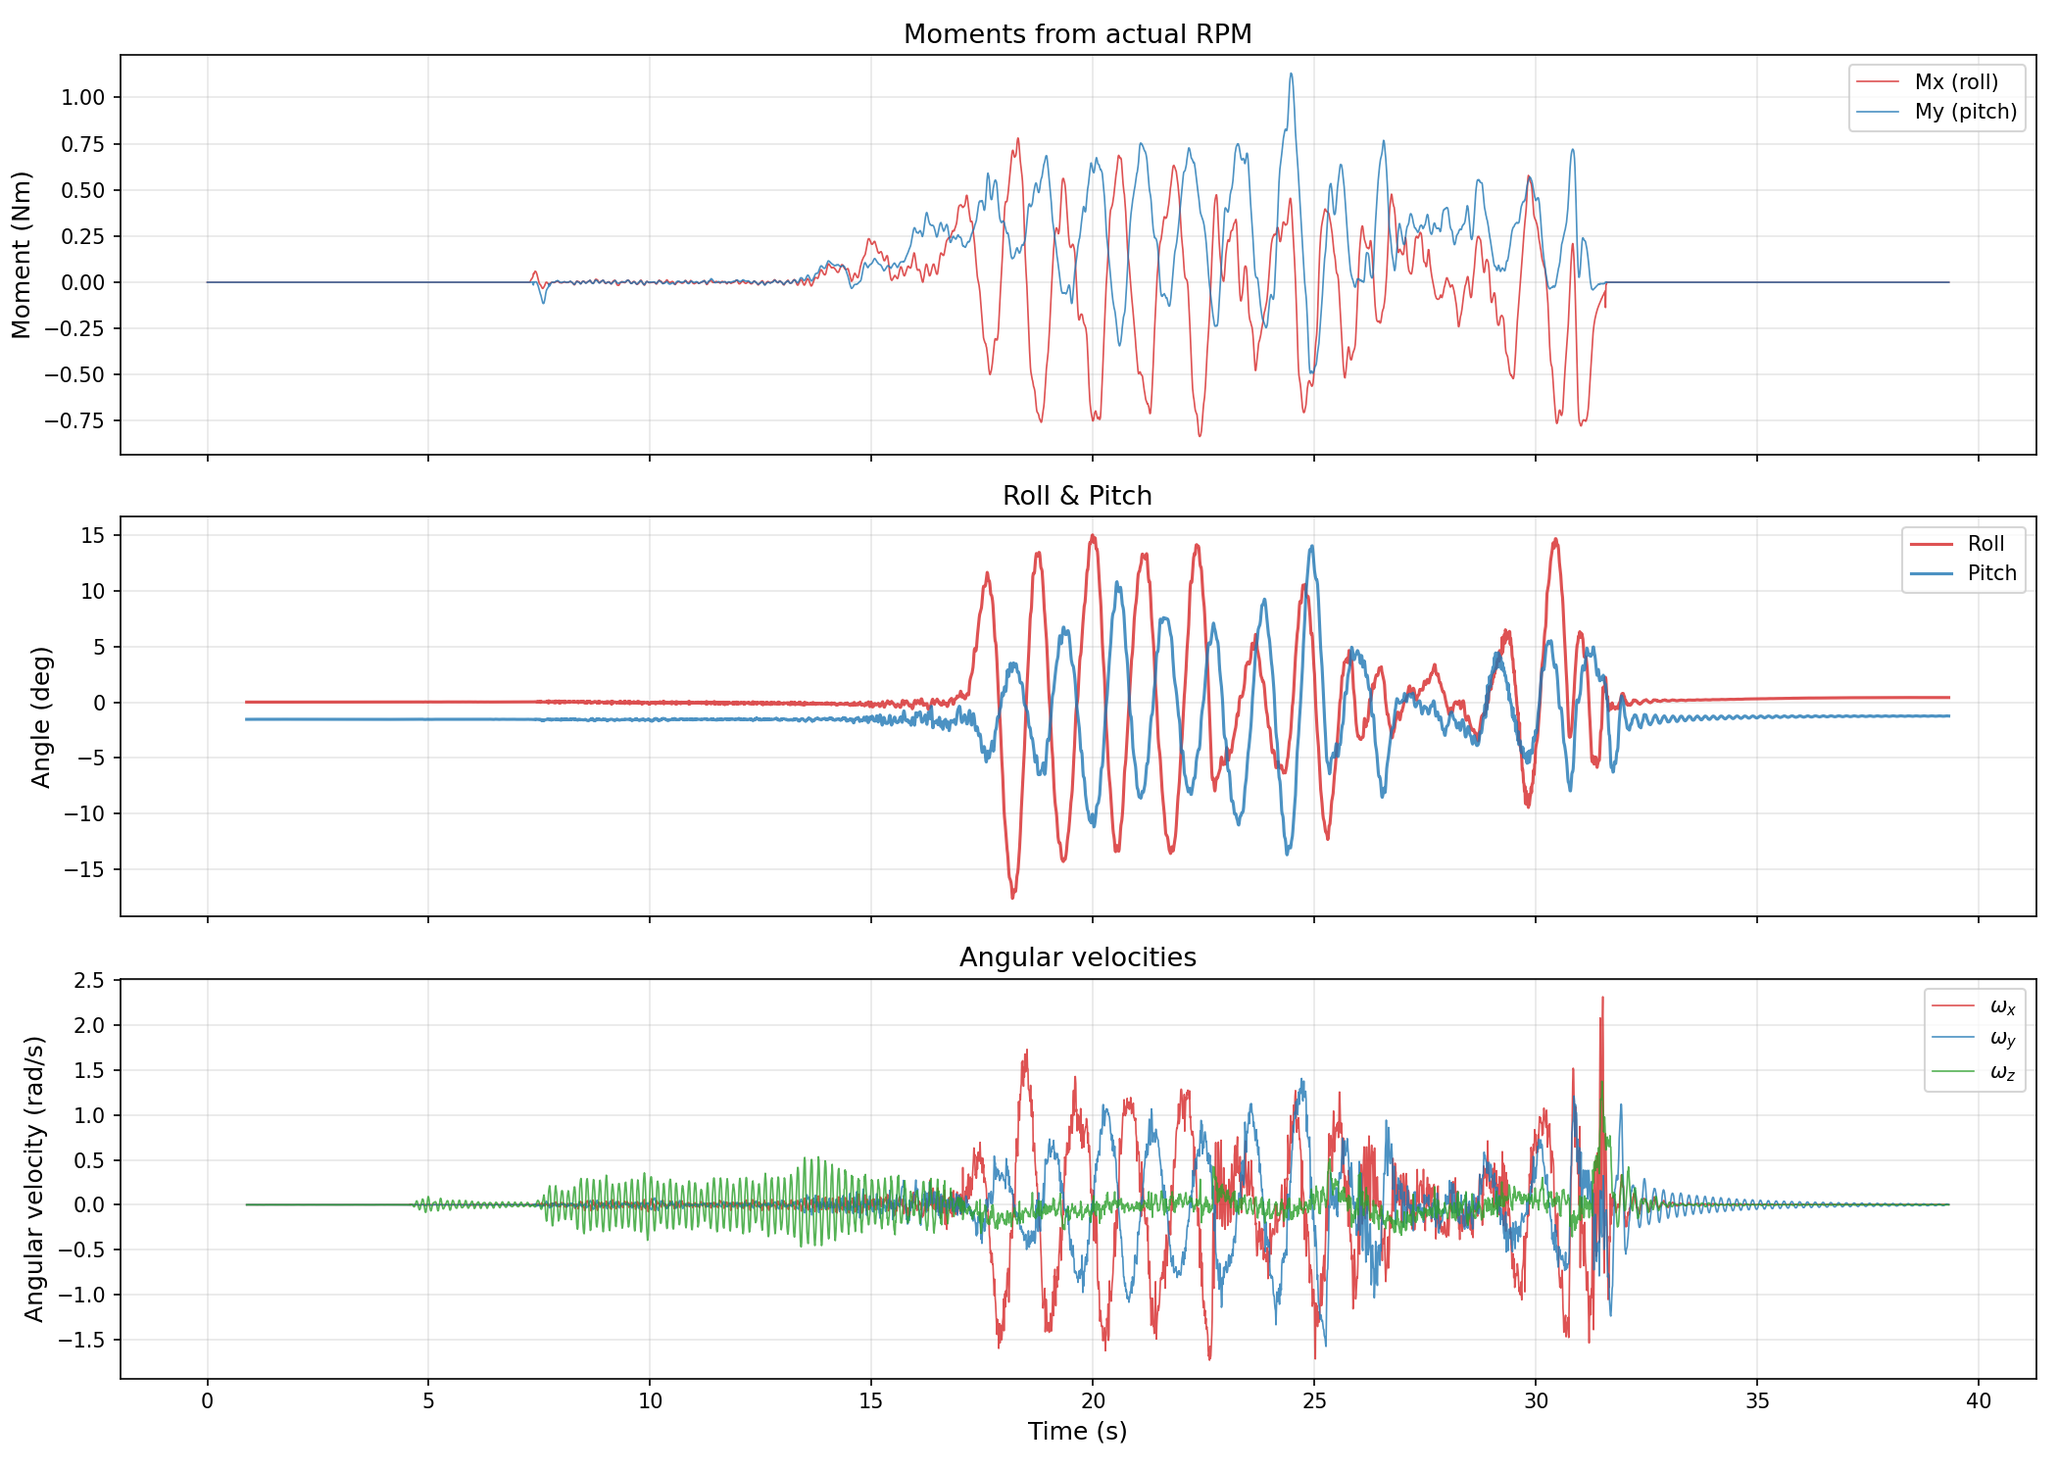
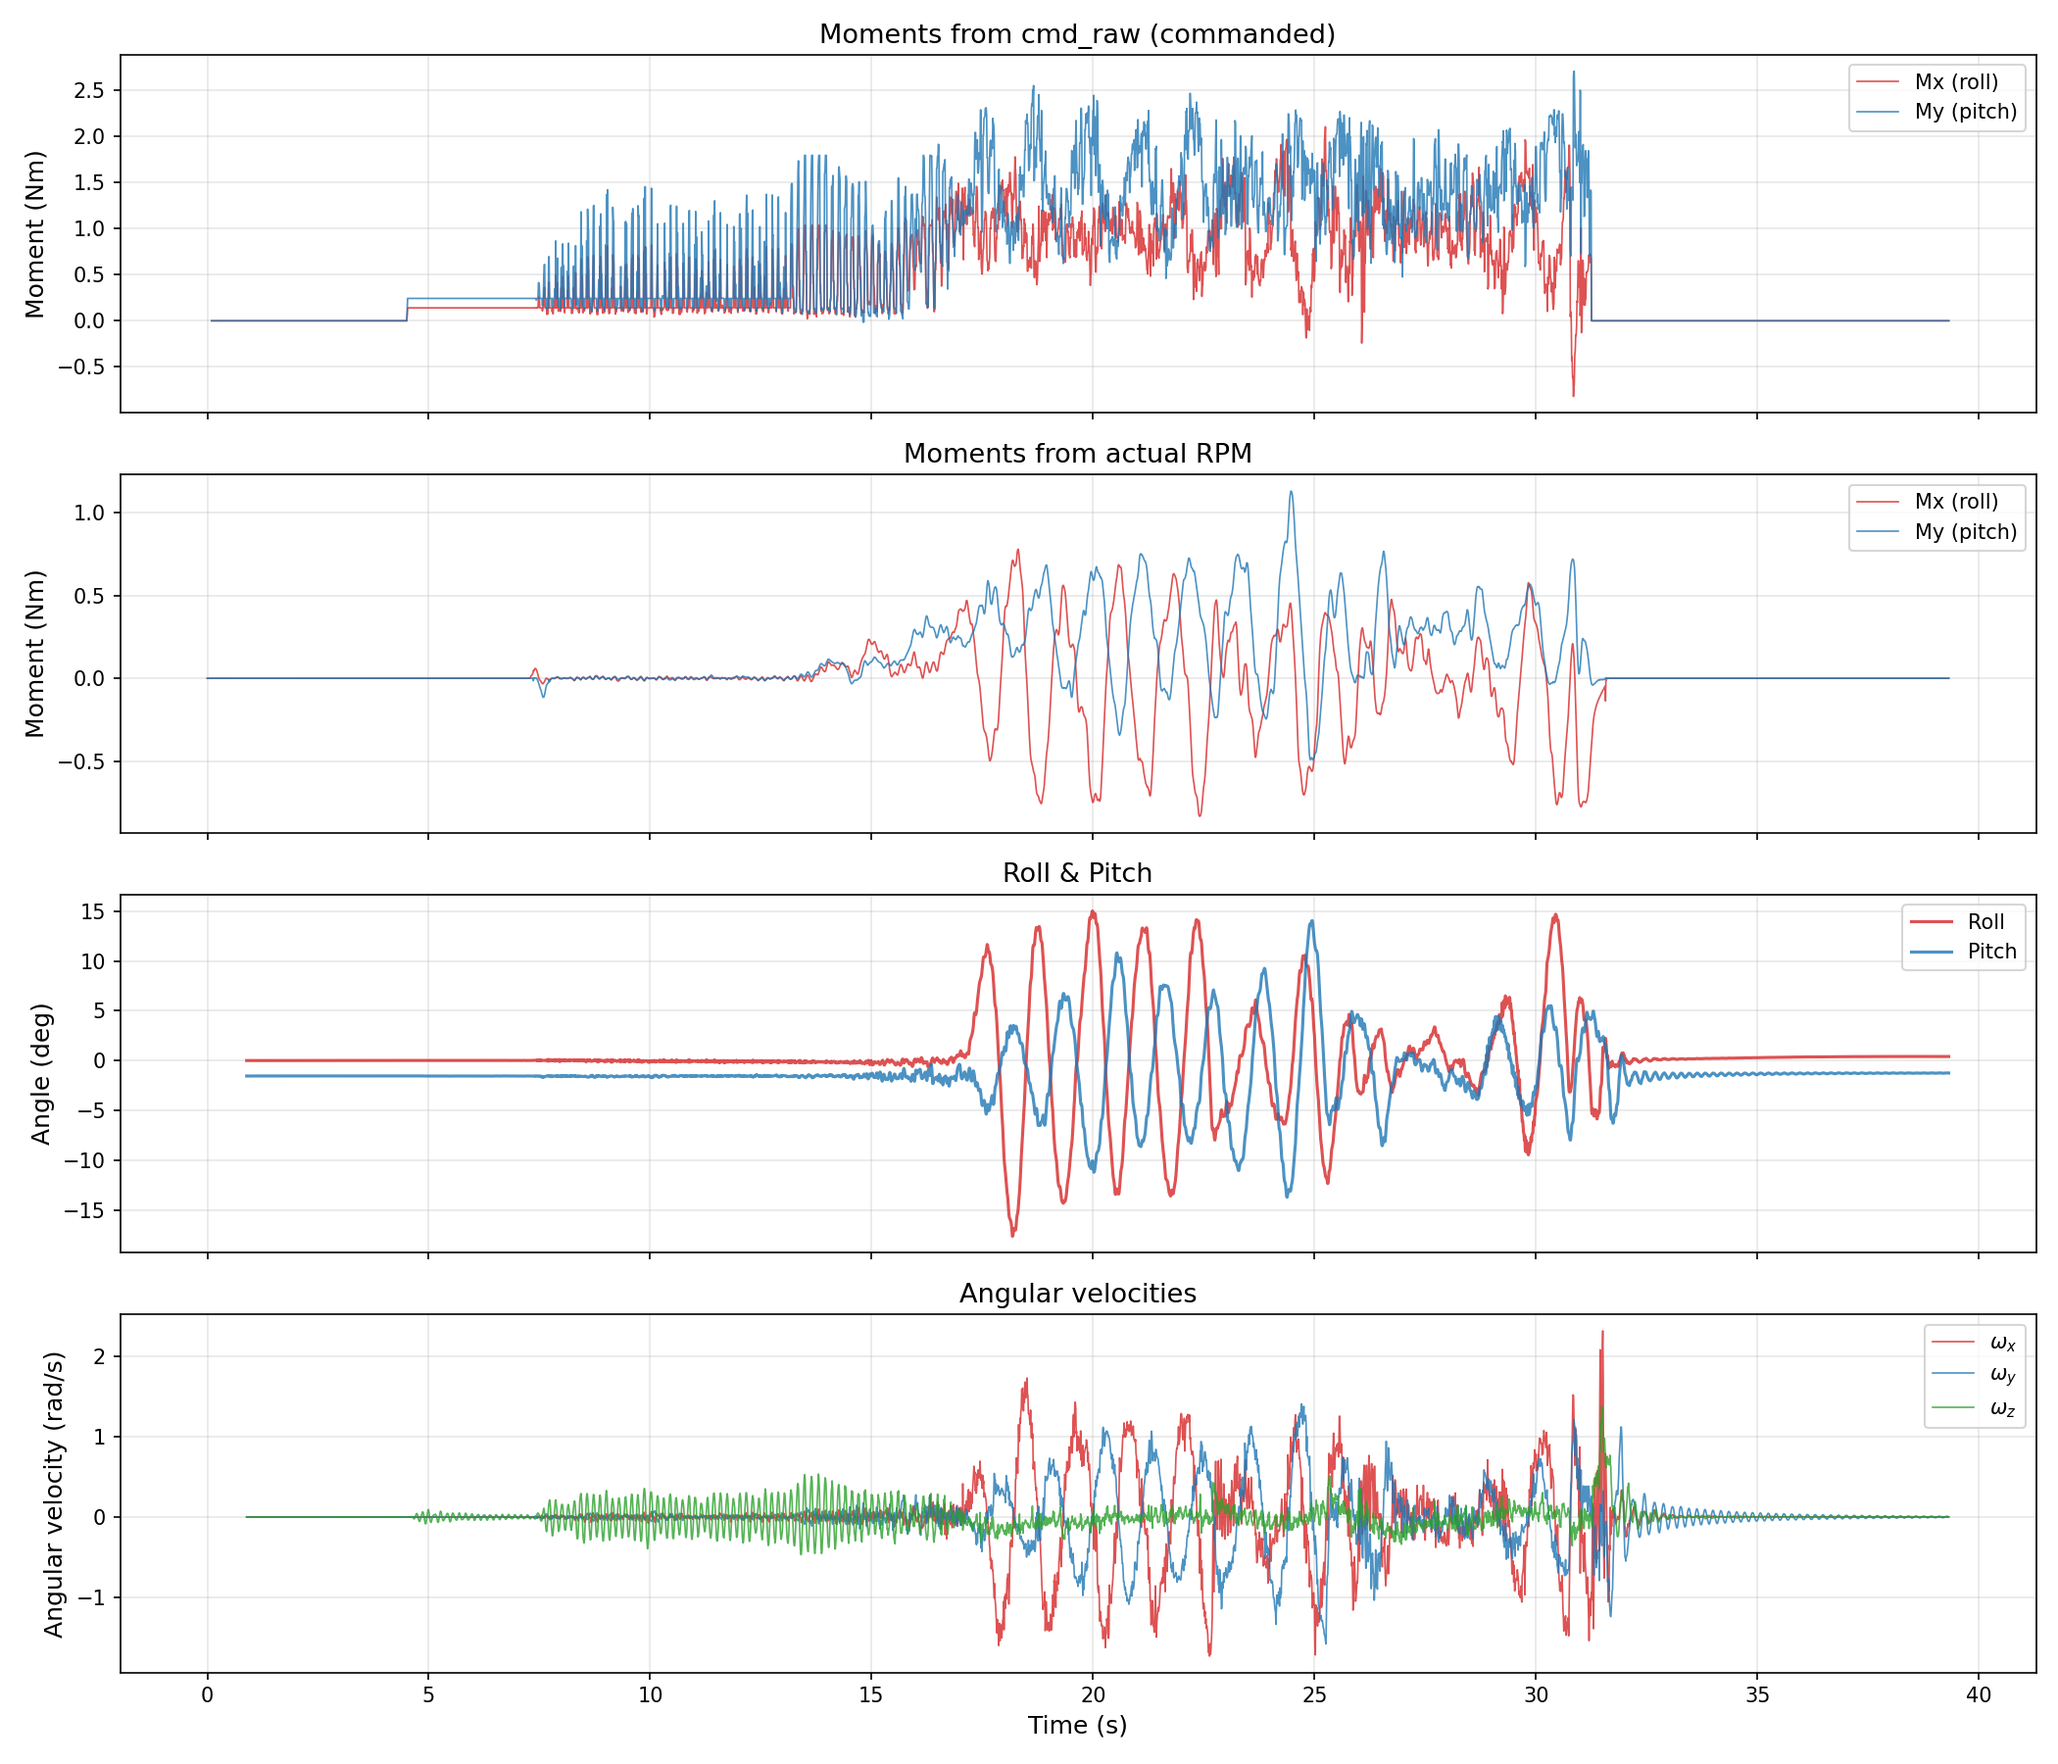
Add cmd_raw moments row and align time to actual_rpm reference
4-row plot: cmd_raw moments, actual RPM moments, roll/pitch, angular velocities.
All time axes referenced to actual_rpm start time.

https://claude.ai/code/session_015hDTXF7MWidPDJrsc9iZ1y

diff --git a/bag_folder/plot_actual_rpm_moment_attitude_omega.py b/bag_folder/plot_actual_rpm_moment_attitude_omega.py
@@ -1,5 +1,5 @@
 #!/usr/bin/env python3
-"""Plot moments from actual RPM, roll/pitch, and angular velocities (3 rows)."""
+"""Plot moments from actual RPM & cmd_raw, roll/pitch, and angular velocities (4 rows)."""
 
 import sqlite3
 import struct
@@ -11,6 +11,8 @@ from scipy.spatial.transform import Rotation
 C_T = 1.465e-07       # N/RPM^2
 k_m = 0.01569          # Nm/N
 l = 0.265              # arm length (m)
+MaxBit = 8191
+MaxRpm = 9800
 
 # ── K_forward matrix (same as existing code) ──
 lx1 = l * np.sin(np.pi / 3); ly1 = l * np.cos(np.pi / 3)
@@ -34,6 +36,18 @@ def cdr_align(off, alignment, cdr_start=4):
     if rem != 0:
         off += alignment - rem
     return off
+
+
+def parse_cmd_raw(data):
+    """Parse HexaCmdRaw CDR → (timestamp, cmd[6])."""
+    off = 4
+    sec = struct.unpack_from('<I', data, off)[0]; off += 4
+    nsec = struct.unpack_from('<I', data, off)[0]; off += 4
+    flen = struct.unpack_from('<I', data, off)[0]; off += 4
+    off += flen
+    off = (off + 3) & ~3
+    cmds = np.array(struct.unpack_from('<6h', data, off), dtype=np.float64)
+    return sec + nsec * 1e-9, cmds
 
 
 def parse_actual_rpm(data):
@@ -85,6 +99,19 @@ def load_bag(db_path):
     c.execute('SELECT id, name FROM topics')
     topics = {name: tid for tid, name in c.fetchall()}
 
+    # ── cmd_raw → moments ──
+    tid = topics['/uav/cmd_raw']
+    c.execute('SELECT timestamp, data FROM messages WHERE topic_id=? ORDER BY timestamp', (tid,))
+    cmd_times, cmd_Mx, cmd_My = [], [], []
+    for ts, data in c.fetchall():
+        t, cmds = parse_cmd_raw(data)
+        rpms = cmds * MaxRpm / MaxBit
+        thrusts = C_T * rpms ** 2
+        u = K_forward @ thrusts
+        cmd_times.append(t)
+        cmd_Mx.append(u[1])
+        cmd_My.append(u[2])
+
     # ── actual_rpm → moments ──
     tid = topics['/uav/actual_rpm']
     c.execute('SELECT timestamp, data FROM messages WHERE topic_id=? ORDER BY timestamp', (tid,))
@@ -114,29 +141,40 @@ def load_bag(db_path):
 
     conn.close()
 
+    cmd_times = np.array(cmd_times)
     rpm_times = np.array(rpm_times)
     odom_times = np.array(odom_times)
-    t0 = min(rpm_times[0], odom_times[0])
+    t0 = rpm_times[0]  # reference time = actual_rpm start
+    cmd_times -= t0
     rpm_times -= t0
     odom_times -= t0
 
-    return (rpm_times, np.array(Mx_list), np.array(My_list), np.array(Mz_list),
+    return (cmd_times, np.array(cmd_Mx), np.array(cmd_My),
+            rpm_times, np.array(Mx_list), np.array(My_list), np.array(Mz_list),
             odom_times, np.array(rolls), np.array(pitches),
             np.array(wxs), np.array(wys), np.array(wzs))
 
 
 # ── Load ──
 db_path = '/home/user/drone_control_pkgs/bag_folder/2026_03_22_nmpc_2/2026_03_22_nmpc_2_0.db3'
-(rpm_t, Mx, My, Mz, odom_t, roll, pitch, wx, wy, wz) = load_bag(db_path)
+(cmd_t, cmd_Mx, cmd_My,
+ rpm_t, Mx, My, Mz,
+ odom_t, roll, pitch, wx, wy, wz) = load_bag(db_path)
 
-# ── Plot: 3 rows ──
-fig, axes = plt.subplots(3, 1, figsize=(14, 10), sharex=True)
+# ── Plot: 4 rows ──
+fig, axes = plt.subplots(4, 1, figsize=(14, 12), sharex=True)
 
-color_m = 'tab:red'
-color_a = 'tab:blue'
-
-# Row 1: Moments from actual RPM (Mx, My)
+# Row 1: Moments from cmd_raw
 ax = axes[0]
+ax.plot(cmd_t, cmd_Mx, color='tab:red', alpha=0.8, linewidth=0.8, label='Mx (roll)')
+ax.plot(cmd_t, cmd_My, color='tab:blue', alpha=0.8, linewidth=0.8, label='My (pitch)')
+ax.set_ylabel('Moment (Nm)', fontsize=12)
+ax.set_title('Moments from cmd_raw (commanded)', fontsize=13)
+ax.legend(loc='upper right', fontsize=10)
+ax.grid(True, alpha=0.3)
+
+# Row 2: Moments from actual RPM
+ax = axes[1]
 ax.plot(rpm_t, Mx, color='tab:red', alpha=0.8, linewidth=0.8, label='Mx (roll)')
 ax.plot(rpm_t, My, color='tab:blue', alpha=0.8, linewidth=0.8, label='My (pitch)')
 ax.set_ylabel('Moment (Nm)', fontsize=12)
@@ -144,8 +182,8 @@ ax.set_title('Moments from actual RPM', fontsize=13)
 ax.legend(loc='upper right', fontsize=10)
 ax.grid(True, alpha=0.3)
 
-# Row 2: Roll & Pitch
-ax = axes[1]
+# Row 3: Roll & Pitch
+ax = axes[2]
 ax.plot(odom_t, roll, color='tab:red', alpha=0.8, label='Roll')
 ax.plot(odom_t, pitch, color='tab:blue', alpha=0.8, label='Pitch')
 ax.set_ylabel('Angle (deg)', fontsize=12)
@@ -153,8 +191,8 @@ ax.set_title('Roll & Pitch', fontsize=13)
 ax.legend(loc='upper right', fontsize=10)
 ax.grid(True, alpha=0.3)
 
-# Row 3: Angular velocities (wx, wy, wz)
-ax = axes[2]
+# Row 4: Angular velocities (wx, wy, wz)
+ax = axes[3]
 ax.plot(odom_t, wx, color='tab:red', alpha=0.8, linewidth=0.8, label=r'$\omega_x$')
 ax.plot(odom_t, wy, color='tab:blue', alpha=0.8, linewidth=0.8, label=r'$\omega_y$')
 ax.plot(odom_t, wz, color='tab:green', alpha=0.8, linewidth=0.8, label=r'$\omega_z$')
